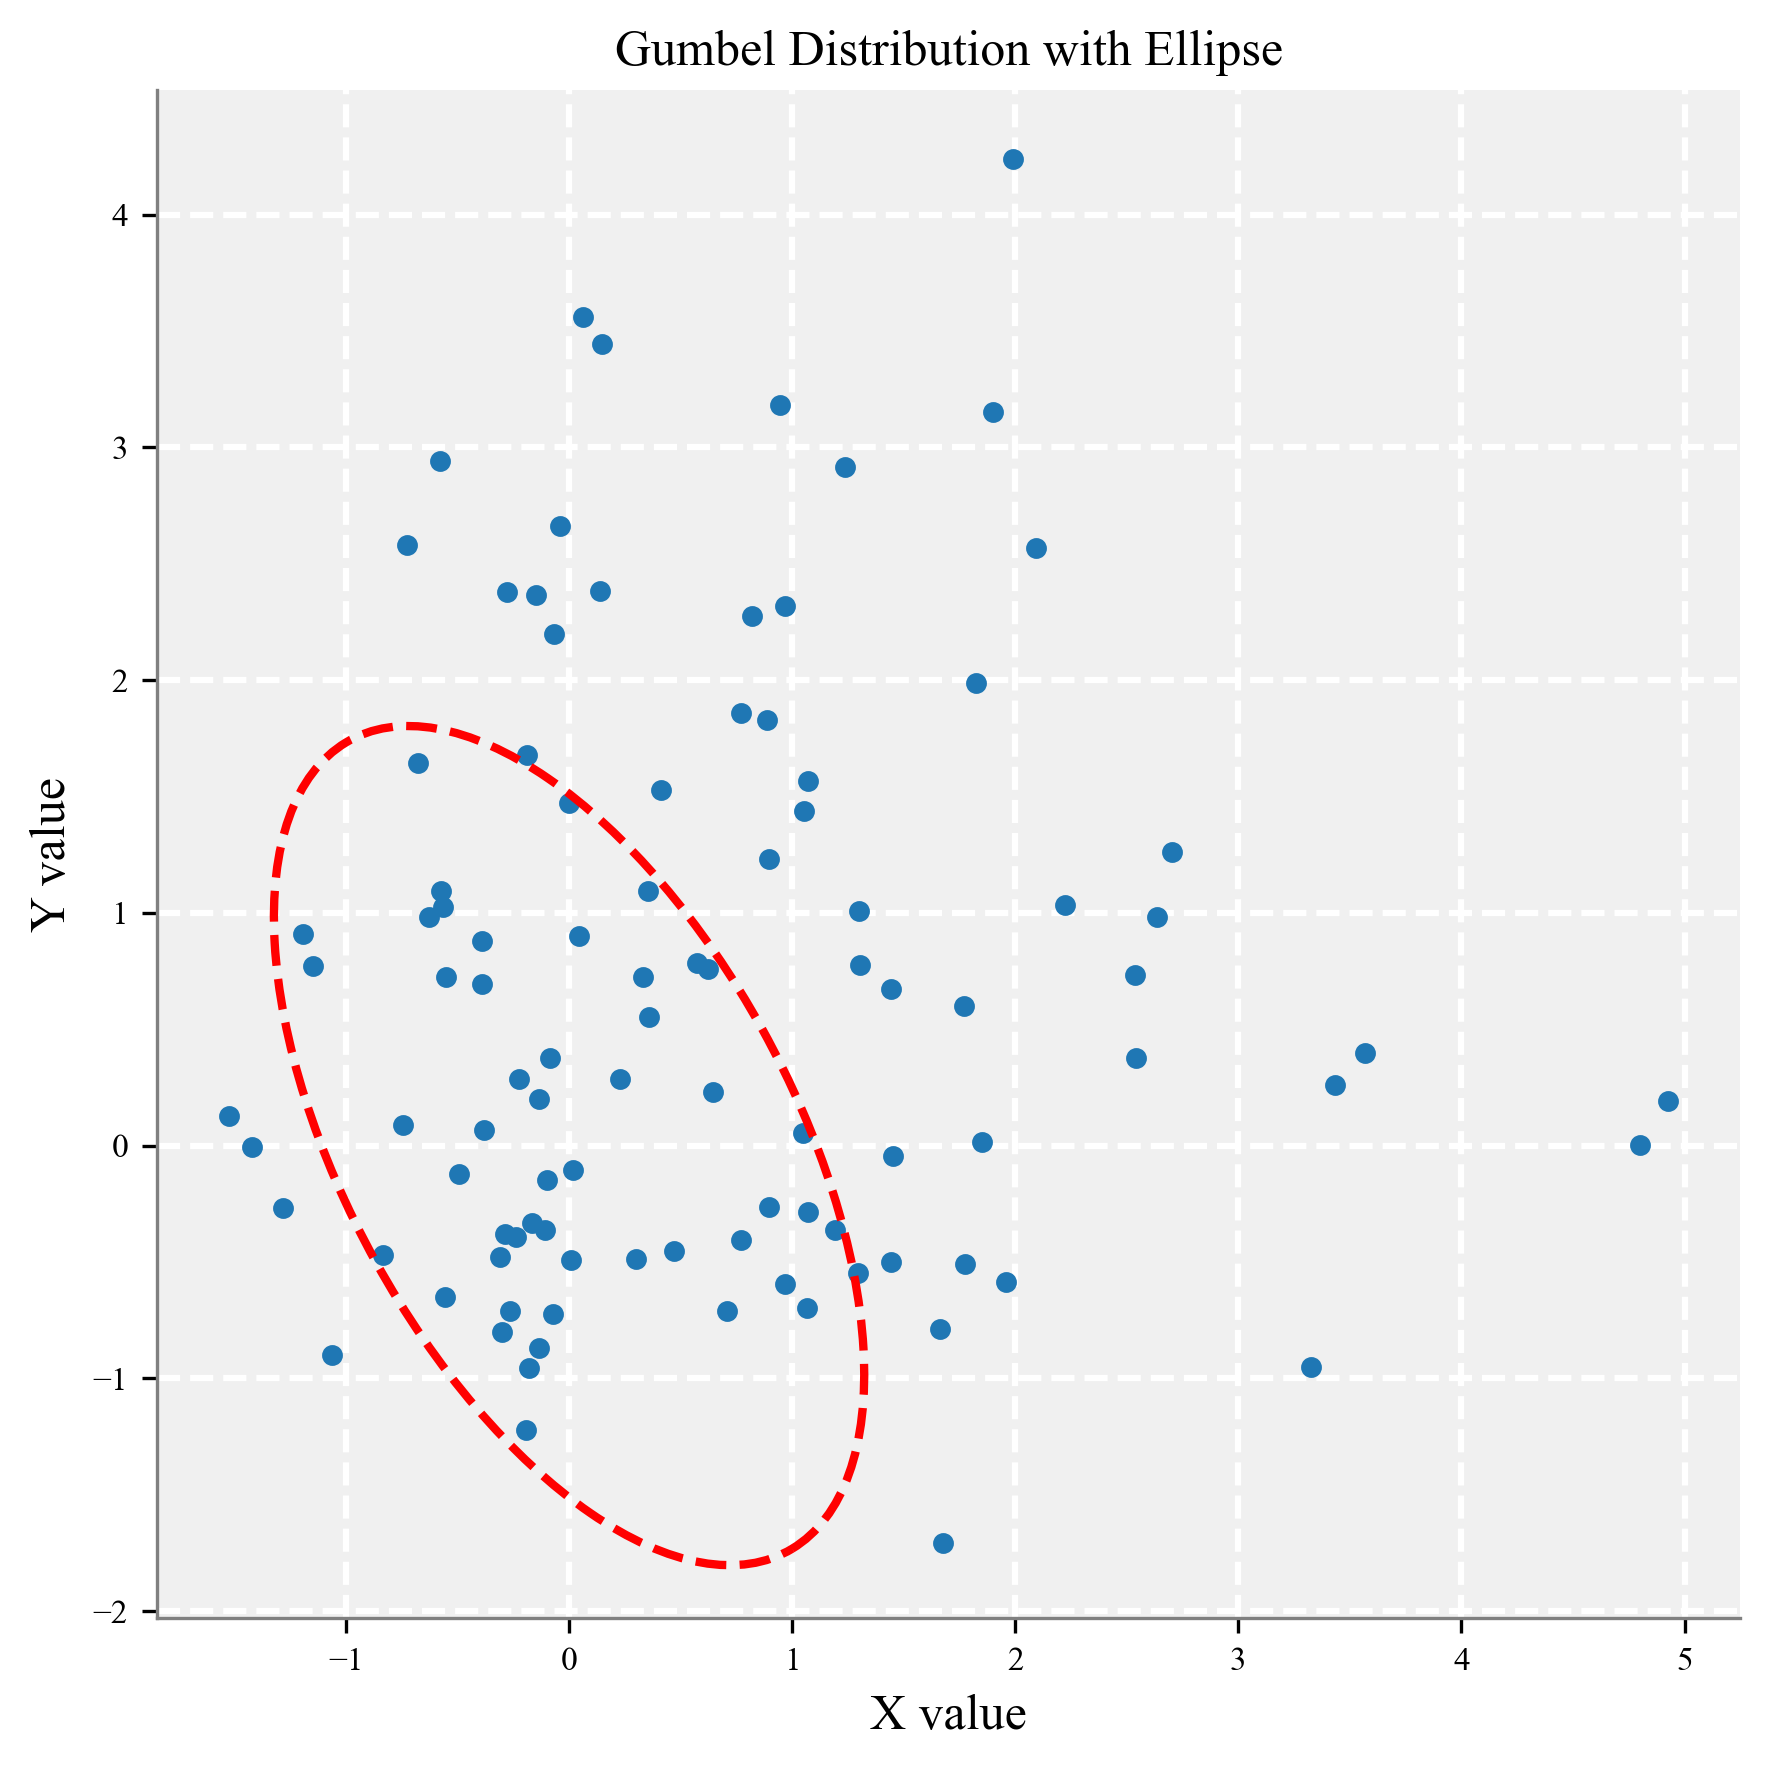
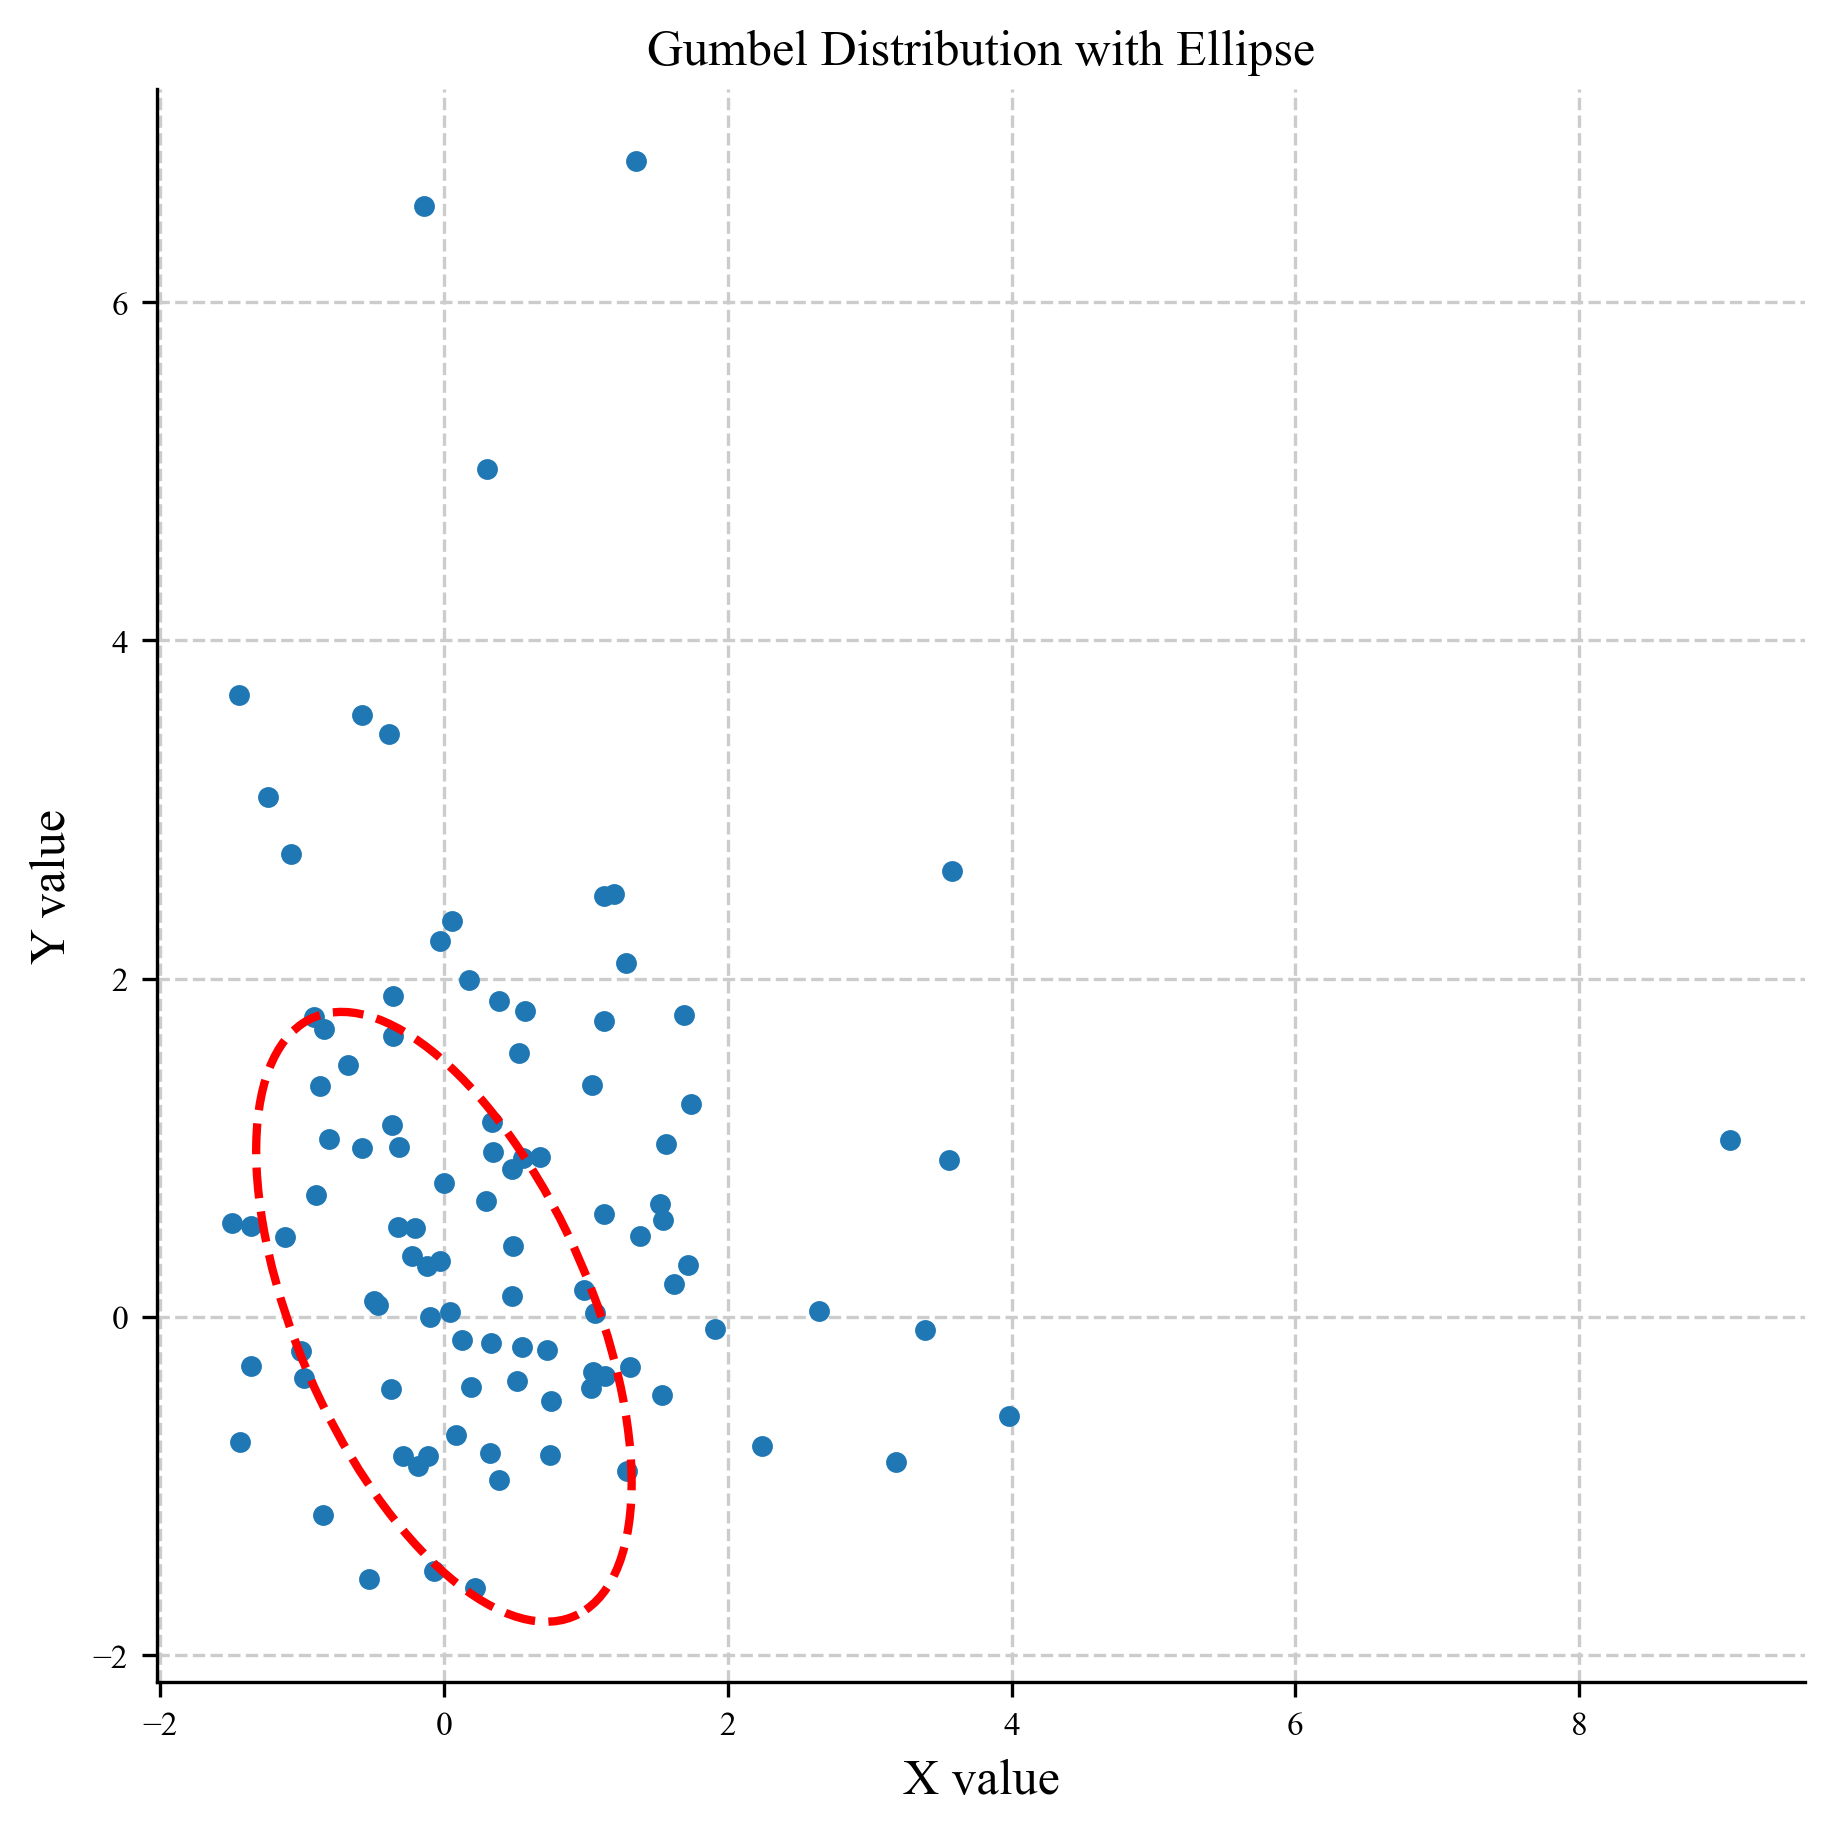
Initial commit

diff --git a/examples/error_handling_test.py b/examples/error_handling_test.py
@@ -10,7 +10,7 @@ print(f"--- Running Example: {__file__} ---")
 # --- 1. 测试 DuplicateTagError ---
 print("\n--- Test 1: Catching DuplicateTagError ---")
 try:
-    plotter = pp.Plotter(n_rows=1, n_cols=2)
+    plotter = pp.Plotter(layout=(2, 1))
     df = pd.DataFrame({'x': [1], 'y': [1]})
     
     plotter.add_bar(data=df, x='x', y='y', tag='my_tag')
@@ -32,7 +32,7 @@ finally:
 # --- 2. 测试 TagNotFoundError ---
 print("\n--- Test 2: Catching TagNotFoundError ---")
 try:
-    plotter = pp.Plotter(n_rows=1, n_cols=1)
+    plotter = pp.Plotter(layout=(1, 1))
     plotter.add_line(pd.DataFrame({'t': [0], 'v': [0]}), x='t', y='v', tag='actual_tag')
     print("Plot with tag 'actual_tag' added successfully.")
     
@@ -53,7 +53,7 @@ finally:
 print("\n--- Test 3: Catching PlottingSpaceError ---")
 try:
     # 创建一个只能放1个图的画布
-    plotter = pp.Plotter(n_rows=1, n_cols=1)
+    plotter = pp.Plotter(layout=(1, 1))
     df = pd.DataFrame({'x': [1], 'y': [1]})
     
     plotter.add_bar(data=df, x='x', y='y')

diff --git a/examples/advanced_customization.py b/examples/advanced_customization.py
@@ -33,11 +33,11 @@ df = pd.DataFrame({
 
 # --- 3. 初始化并绘图 ---
 try:
-    plotter = pp.Plotter(n_rows=1, n_cols=1, figsize=(6, 6))
+    plotter = pp.Plotter(figsize=(6, 6), layout=(1, 1))
 
     # 注册我们的自定义模板
     print("Registering custom cleanup template named 'gray_grid'...")
-    plotter.register_cleanup_template('gray_grid', custom_template)
+    # plotter.register_cleanup_template('gray_grid', custom_template)
 
     plotter.add_scatter(data=df, x='x', y='y', tag='gumbel_dist')
 
@@ -57,7 +57,7 @@ try:
     plotter.set_ylabel('gumbel_dist', 'Y value')
 
     # --- 5. 使用自定义模板进行美化并保存 ---
-    plotter.cleanup(template='gray_grid')
+    plotter.cleanup()
     plotter.save("advanced_customization_figure.png")
 
 except pp.PaperPlotError as e:
